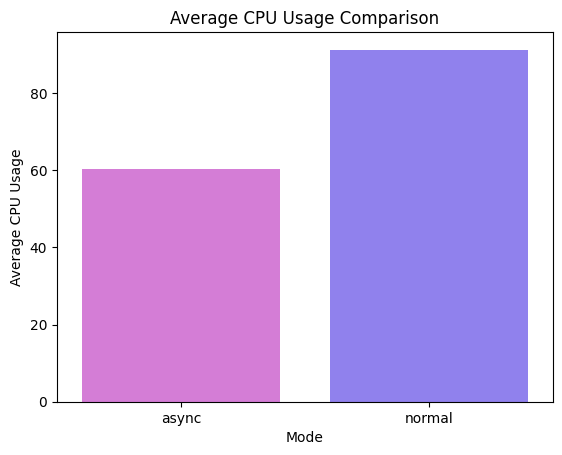
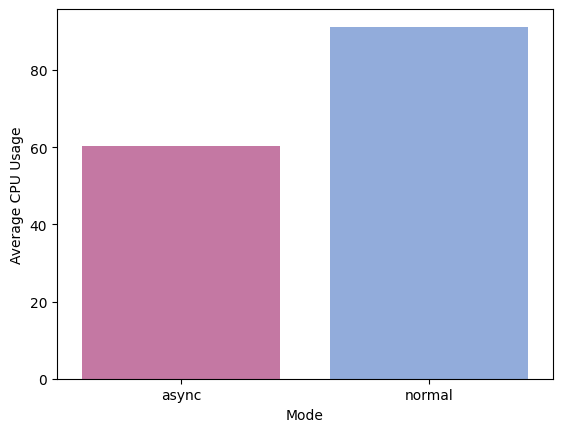
feat(profaastinate): evaluation add comparision chart

diff --git a/profaastinate/evaluation/data-analysis/data-analyser.py b/profaastinate/evaluation/data-analysis/data-analyser.py
@@ -7,26 +7,46 @@ import seaborn as sns
 import numpy as np
 import matplotlib.dates as mdates
 from matplotlib.ticker import MaxNLocator
+from enum import Enum
+import matplotlib.lines as mlines
+
+
+class Modes(Enum):
+    NORMAL = 'normal'
+    ASYNC = 'async'
+
+
+class Scheduler(Enum):
+    DEADLINE = 'deadline'
+    IDLE = 'idle'
+    BULK = 'bulk'
 
 
 class ChartFactory:
     def __init__(self):
         self.fig, self.ax = plt.subplots()
 
-        self.custom_colors = {
-            "deadline": "#15F5BA",
-            "idle": "#836FFF",
-            "bulk": "#E26EE5",
-            "async": "#E26EE5",
-            "normal": "#836FFF",
-        }
 
+        self.custom_colors = {
+            Scheduler.DEADLINE.value: "#15F5BA",
+            Scheduler.IDLE.value: "#836FFF",
+            Scheduler.BULK.value: "#E26EE5",
+            Modes.ASYNC.value: "#D16BA5",
+            f"{Modes.ASYNC.value}_cpu": "#D16BA5",
+            f"{Modes.ASYNC.value}_requests": "#FF8F80",
+            Modes.NORMAL.value: "#86A8E7",
+            f"{Modes.NORMAL.value}_cpu": "#86A8E7",
+            f"{Modes.NORMAL.value}_requests": "#00DBED",
+
+            "cpu_usage": "#FF9671",
+        }
         self.interval = '50s'
 
         self.modes = ['async', 'normal']
 
-    def finalize_and_save_chart(self, title, filename):
-        plt.title(title)
+    def finalize_and_save_chart(self, filename, title = ""):
+        if title:
+            plt.title(title)
         filename = f"./charts/{filename}"
         if os.path.isfile(filename):
             os.remove(filename)
@@ -49,13 +69,13 @@ class ChartFactory:
         colors = [self.custom_colors.get(x, "#333333") for x in labels]
         self.ax.pie(sizes, labels=labels, autopct='%1.1f%%', startangle=90, colors=colors)
         self.ax.axis('equal')
-        self.finalize_and_save_chart(title, filename)
+        self.finalize_and_save_chart(filename, title)
 
     def create_histogram(self, data, title, filename):
         df = pd.DataFrame(list(data.items()), columns=['scheduler_type', 'Count'])
         palette = [self.custom_colors.get(x) for x in df['scheduler_type'].unique()]
         sns.barplot(x='scheduler_type', y='Count', data=df, palette=palette)
-        self.finalize_and_save_chart(title, filename)
+        self.finalize_and_save_chart(filename, title)
 
     def create_line_chart(self, data, title, filename, include_scheduler=True):
         fig, ax1 = plt.subplots()
@@ -71,17 +91,17 @@ class ChartFactory:
             resampled_df = pd.concat([resampled_deadline_df, resampled_non_deadline_df], ignore_index=True)
             sns.lineplot(x='timestamp', y='requests', hue='scheduler_type', data=resampled_df, ax=ax1,
                          palette=self.custom_colors)
+            ax1.set_ylim(0, 100)
         else:
             resampled_df = data.set_index('timestamp').resample(self.interval).size().reset_index(name='requests')
-            sns.lineplot(x='timestamp', y='requests', data=resampled_df, ax=ax1, color='#E26EE5')
+            sns.lineplot(x='timestamp', y='requests', data=resampled_df, ax=ax1, color=self.custom_colors['normal'])
 
-        plt.legend(title='Legend', loc='lower left')
+        plt.legend(title='Legend', loc='upper left')
         ax1.set_xlabel('Timestamp')
         ax1.set_ylabel('Requests per Minute')
         ax1.tick_params(axis='y')
         ax1.xaxis.set_major_formatter(mdates.DateFormatter('%H:%M'))
         ax1.xaxis.set_major_locator(MaxNLocator(6))
-
 
         data['cpu_usage'] = pd.to_numeric(data['cpu_usage'], errors='coerce')
         data = data.set_index('timestamp')
@@ -89,15 +109,15 @@ class ChartFactory:
         resampled_cpu_df = data['cpu_usage'].resample('min').mean().reset_index()
 
         ax2 = ax1.twinx()
-        sns.lineplot(x='timestamp', y='cpu_usage', label='CPU Usage', data=resampled_cpu_df, ax=ax2, color='#E26EE5')
+        sns.lineplot(x='timestamp', y='cpu_usage', label='CPU Usage', data=resampled_cpu_df, ax=ax2, color=self.custom_colors['cpu_usage'])
         ax2.set_ylabel('CPU Usage (%)')
         ax2.tick_params(axis='y')
         ax2.set_ylim(0, 100)
+        ax1.set_xlim(resampled_df['timestamp'].min(), resampled_df['timestamp'].max())
 
-        plt.title(title)
         plt.xticks(rotation=180)
 
-        self.finalize_and_save_chart(title, filename)
+        self.finalize_and_save_chart(filename, title)
 
     def create_timeline_chart(self, data, title, filename):
         avg_durations = data.groupby('scheduler_type').agg({
@@ -110,20 +130,19 @@ class ChartFactory:
                                                   value_vars=['async_duration', 'sync_duration', 'exec_duration'],
                                                   var_name='Phase', value_name='Average Duration')
 
-        # Plotting
         sns.barplot(x='Phase', y='Average Duration', hue='scheduler_type', data=avg_durations_melted, palette=self.custom_colors)
         plt.xticks(rotation=45)
-        self.finalize_and_save_chart(title, filename)
+        self.finalize_and_save_chart(filename, title)
 
-    def create_cpu_histogram(self, async_data, normal_data, title, filename):
+    def create_cpu_histogram(self, async_data, normal_data, filename):
         async_avg_cpu = async_data['cpu_usage'].mean()
         normal_avg_cpu = normal_data['cpu_usage'].mean()
         df = pd.DataFrame({'Mode': self.modes, 'Average CPU Usage': [async_avg_cpu, normal_avg_cpu]})
 
         sns.barplot(x='Mode', y='Average CPU Usage', data=df, palette=self.custom_colors)
-        self.finalize_and_save_chart(title, filename)
+        self.finalize_and_save_chart(filename)
 
-    def create_average_deviation_histogram(self, async_data, normal_data, title, filename):
+    def create_average_deviation_histogram(self, async_data, normal_data, filename):
         async_avg_req = async_data.groupby(pd.Grouper(key='timestamp', freq=self.interval)).size().mean()
         normal_avg_req = normal_data.groupby(pd.Grouper(key='timestamp', freq=self.interval)).size().mean()
 
@@ -136,10 +155,9 @@ class ChartFactory:
         })
 
         sns.barplot(x='Mode', y='Average Absolute Deviation', data=df, palette=self.custom_colors)
-        plt.title(title)
-        self.finalize_and_save_chart(title, filename)
+        self.finalize_and_save_chart(filename)
 
-    def create_execution_time_chart(self, async_data, normal_data, title, filename):
+    def create_execution_time_chart(self, async_data, normal_data, filename):
         async_avg_exec = async_data['exec_duration'].mean()
         normal_avg_exec = normal_data['exec_duration'].mean()
 
@@ -150,9 +168,9 @@ class ChartFactory:
 
         sns.barplot(x='Mode', y='Average Execution Time', data=df, palette=self.custom_colors)
         plt.xticks(rotation=45)
-        self.finalize_and_save_chart(title, filename)
+        self.finalize_and_save_chart(filename)
 
-    def create_requests_per_minute_chart(self, async_data, normal_data, title, filename):
+    def create_requests_per_minute_chart(self, async_data, normal_data, filename):
         async_avg_req = async_data.groupby(pd.Grouper(key='timestamp', freq='1Min')).size().mean()
         normal_avg_req = normal_data.groupby(pd.Grouper(key='timestamp', freq='1Min')).size().mean()
 
@@ -163,7 +181,53 @@ class ChartFactory:
 
         sns.barplot(x='Mode', y='Average Requests per Minute', data=df, palette=self.custom_colors)
         plt.xticks(rotation=45)
-        self.finalize_and_save_chart(title, filename)
+        self.finalize_and_save_chart(filename)
+
+    def create_line_chart_comparison(self, async_data, normal_data, title, filename):
+        fig, ax1 = plt.subplots()
+
+        async_resampled = async_data.set_index('timestamp').resample(self.interval).agg({'cpu_usage': 'mean'})
+        async_resampled['requests'] = async_data.set_index('timestamp').resample(self.interval).size()
+        async_resampled['Mode'] = Modes.ASYNC.value
+        async_resampled = async_resampled.reset_index(drop=True)
+
+        normal_resampled = normal_data.set_index('timestamp').resample(self.interval).agg({'cpu_usage': 'mean'})
+        normal_resampled['requests'] = normal_data.set_index('timestamp').resample(self.interval).size()
+        normal_resampled['Mode'] = Modes.NORMAL.value
+        normal_resampled = normal_resampled.reset_index(drop=True)
+
+        combined_data = pd.concat([async_resampled, normal_resampled]).reset_index()
+
+        cpu_palette = {Modes.ASYNC.value: self.custom_colors[f"{Modes.ASYNC.value}_cpu"],
+                       Modes.NORMAL.value: self.custom_colors[f"{Modes.NORMAL.value}_cpu"]}
+        request_palette = {Modes.ASYNC.value: self.custom_colors[f"{Modes.ASYNC.value}_requests"],
+                           Modes.NORMAL.value: self.custom_colors[f"{Modes.NORMAL.value}_requests"]}
+
+        sns.lineplot(x='index', y='requests', hue='Mode', data=combined_data, ax=ax1, palette=request_palette)
+
+        ax2 = ax1.twinx()
+        sns.lineplot(x='index', y='cpu_usage', hue='Mode', data=combined_data, ax=ax2, palette=cpu_palette, legend=False)
+        ax2.set_ylabel('CPU Usage (%)')
+
+        legend_elements = [
+            mlines.Line2D([], [], color=self.custom_colors[f'{Modes.ASYNC.value}_requests'], label='Async Req.'),
+            mlines.Line2D([], [], color=self.custom_colors[f'{Modes.NORMAL.value}_requests'], label='Normal Req.'),
+            mlines.Line2D([], [], color=self.custom_colors[Modes.ASYNC.value], label='Async CPU'),
+            mlines.Line2D([], [], color=self.custom_colors[Modes.NORMAL.value], label='Normal CPU')
+        ]
+        ax1.legend(handles=legend_elements, loc='upper right', title='Legend')
+
+        ax1.set_xlabel('Relative Time Index')
+        ax1.set_ylabel('Requests per Interval')
+
+        plt.title(title)
+        plt.xticks(rotation=45)
+        fig.tight_layout()
+        ax2.set_ylim(0, normal_resampled['requests'].max())
+        ax1.set_xlim(0, 18)
+        ax1.xaxis.set_major_locator(MaxNLocator(5))
+
+        self.finalize_and_save_chart(filename, title)
 
 
 def read_log_file(file_path):
@@ -271,8 +335,9 @@ chart_factory.create_chart('line', async_dataframe, 'Requests per Second by Sche
 
 chart_factory.create_timeline_chart(async_dataframe, 'Phase Durations by Scheduler', 'async/timeline_chart')
 chart_factory.create_line_chart(normal_dataframe, 'Requests per Second', 'normal/line_chart.png', include_scheduler=False)
+chart_factory.create_line_chart_comparison(async_dataframe, normal_dataframe, 'Requests per Second', 'comparison/line_chart.png')
 
-chart_factory.create_cpu_histogram(async_dataframe, normal_dataframe, 'Average CPU Usage Comparison', 'comparison/cpu_histogram.png')
-chart_factory.create_execution_time_chart(async_dataframe, normal_dataframe, 'Average Execution Time Comparison', 'comparison/execution_time_chart.png')
-chart_factory.create_requests_per_minute_chart(async_dataframe, normal_dataframe, 'Average Requests per Minute Comparison', 'comparison/requests_per_minute_chart.png')
-chart_factory.create_average_deviation_histogram(async_dataframe, normal_dataframe, 'Requests Deviation Histogram', 'comparison/requests_deviation_histogram.png')
+chart_factory.create_cpu_histogram(async_dataframe, normal_dataframe, 'comparison/cpu_histogram.png')
+chart_factory.create_execution_time_chart(async_dataframe, normal_dataframe,  'comparison/execution_time_chart.png')
+chart_factory.create_requests_per_minute_chart(async_dataframe, normal_dataframe,  'comparison/requests_per_minute_chart.png')
+chart_factory.create_average_deviation_histogram(async_dataframe, normal_dataframe, 'comparison/requests_deviation_histogram.png')
